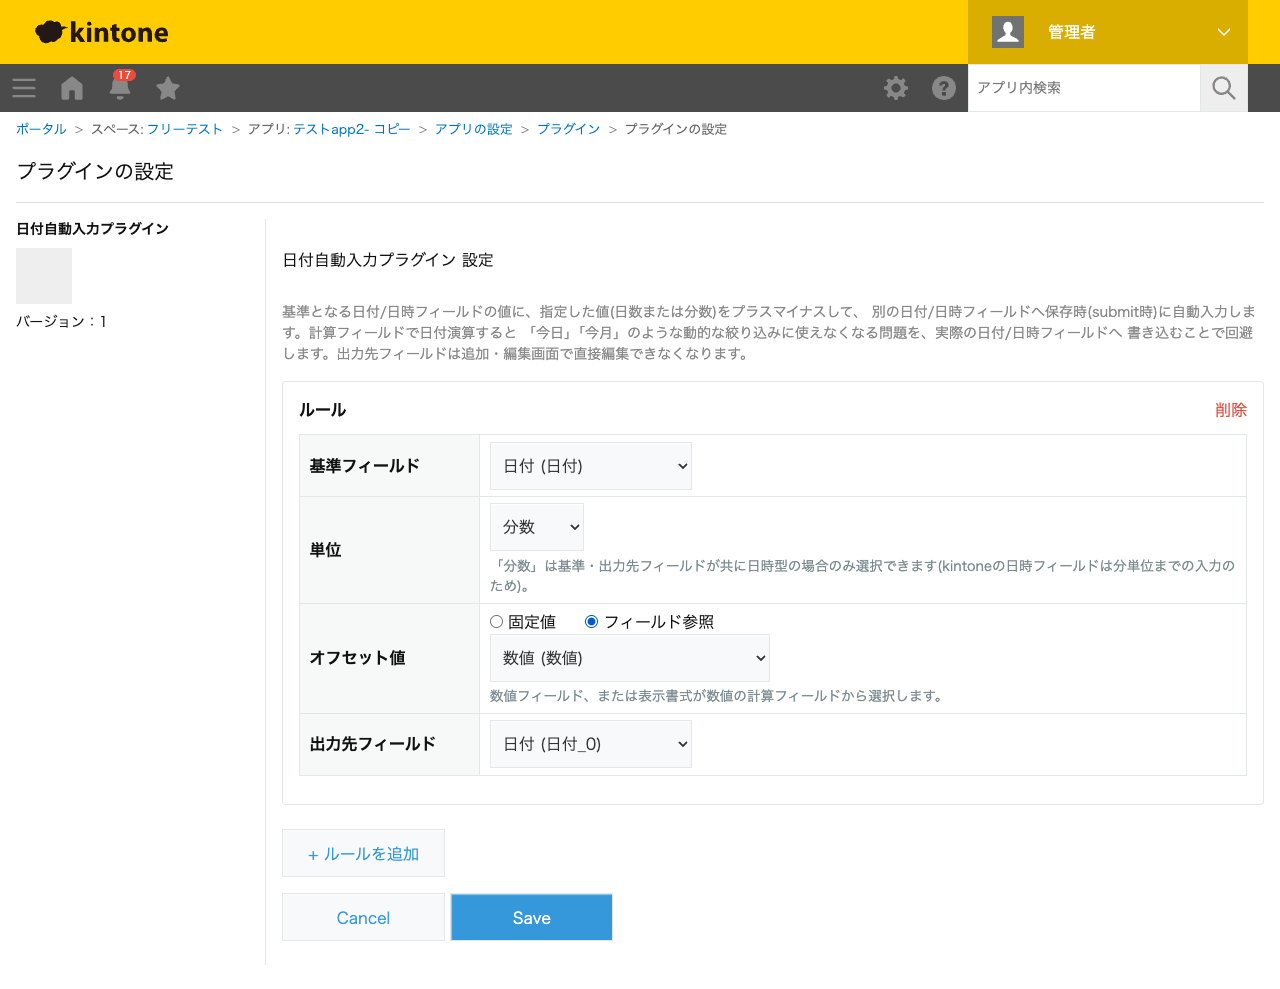
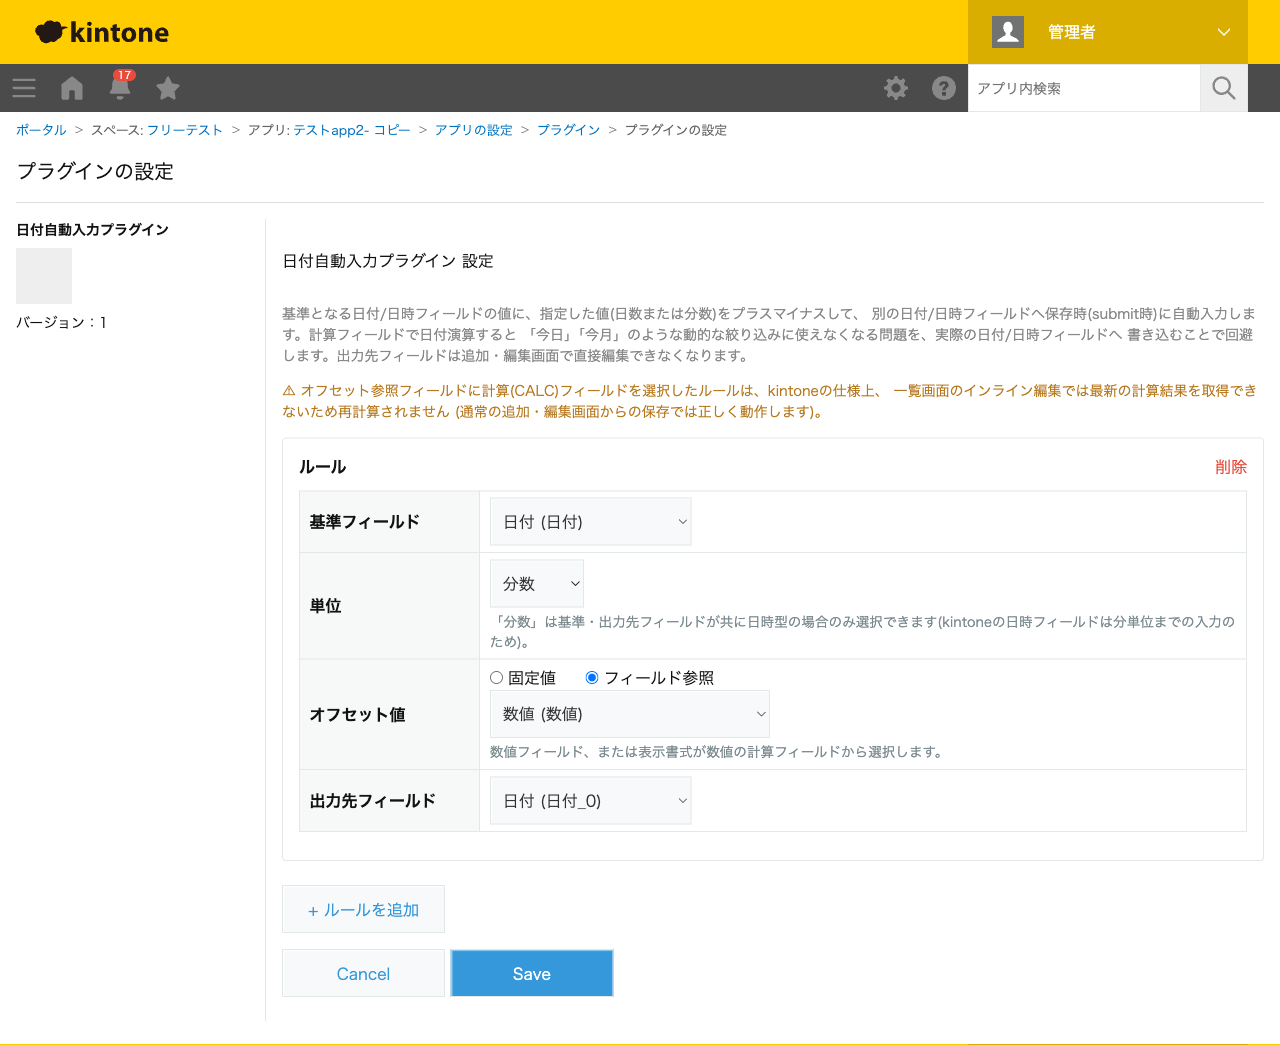
date_offset_autofill: show config-screen caution for CALC offset + list inline edit
一覧画面のインライン編集で「更新できていない」という報告を受けて調査したところ、
event.record自体は出力先フィールドを含め正しく渡っており、既存のisUnreliableInlineEditOffset
によるスキップ(オフセット参照フィールドが計算フィールドの場合、一覧イベントではその値が
信頼できないため計算をスキップする)は意図通り正しく機能していたことが実機検証で判明した。
REST API化は不要と判断し、代わりに設定画面でこの制限をユーザーに明示するcautionを追加した。

diff --git a/date_offset_autofill/src/js/config.js b/date_offset_autofill/src/js/config.js
@@ -62,6 +62,7 @@
       const fixedValueEl = rowEl.querySelector('.js-rule-fixed-value');
       const offsetFieldRowEl = rowEl.querySelector('.js-rule-offset-field-row');
       const offsetFieldEl = rowEl.querySelector('.js-rule-offset-field');
+      const calcCautionEl = rowEl.querySelector('.js-rule-calc-caution');
       const targetEl = rowEl.querySelector('.js-rule-target');
       const removeEl = rowEl.querySelector('.js-rule-remove');
 
@@ -69,6 +70,19 @@
         const isFixed = rule.offsetSource === 'FIXED';
         fixedRowEl.style.display = isFixed ? '' : 'none';
         offsetFieldRowEl.style.display = isFixed ? 'none' : '';
+      };
+
+      // オフセット参照フィールドが計算(CALC)フィールドの場合、一覧画面のインライン編集では
+      // 再計算されない(desktop.jsのisUnreliableInlineEditOffsetによりスキップされる)ため、
+      // 同じ判定関数を使って設定画面にもその旨のcautionを表示する(idea.md「一覧インライン編集
+      // 固有の注意点」参照)。
+      const applyCalcCautionVisibility = () => {
+        const offsetFieldInfo = fieldInfoByCode[rule.offsetFieldCode];
+        const isUnreliable = NS.OffsetCalculator.isUnreliableInlineEditOffset(
+          rule,
+          offsetFieldInfo && offsetFieldInfo.type,
+        );
+        calcCautionEl.hidden = !isUnreliable;
       };
 
       buildOptions(
@@ -97,6 +111,7 @@
         '(選択してください)',
       );
       applySourceVisibility();
+      applyCalcCautionVisibility();
 
       baseEl.addEventListener('change', () => {
         rule.baseFieldCode = baseEl.value;
@@ -108,12 +123,14 @@
         if (sourceFixedEl.checked) {
           rule.offsetSource = 'FIXED';
           applySourceVisibility();
+          applyCalcCautionVisibility();
         }
       });
       sourceFieldEl.addEventListener('change', () => {
         if (sourceFieldEl.checked) {
           rule.offsetSource = 'FIELD';
           applySourceVisibility();
+          applyCalcCautionVisibility();
         }
       });
       fixedValueEl.addEventListener('input', () => {
@@ -122,6 +139,7 @@
       });
       offsetFieldEl.addEventListener('change', () => {
         rule.offsetFieldCode = offsetFieldEl.value;
+        applyCalcCautionVisibility();
       });
       targetEl.addEventListener('change', () => {
         rule.targetFieldCode = targetEl.value;

diff --git a/date_offset_autofill/src/html/config.html b/date_offset_autofill/src/html/config.html
@@ -6,6 +6,11 @@
     「今日」「今月」のような動的な絞り込みに使えなくなる問題を、実際の日付/日時フィールドへ
     書き込むことで回避します。出力先フィールドは追加・編集画面で直接編集できなくなります。
   </p>
+  <p class="kintoneplugin-desc doa-desc-caution">
+    ⚠ オフセット参照フィールドに計算(CALC)フィールドを選択したルールは、kintoneの仕様上、
+    一覧画面のインライン編集では最新の計算結果を取得できないため再計算されません
+    (通常の追加・編集画面からの保存では正しく動作します)。
+  </p>
 
   <form class="js-submit-settings">
     <div id="js-errors" class="doa-errors"></div>
@@ -58,6 +63,7 @@
             <div class="js-rule-offset-field-row">
               <select class="kintoneplugin-select js-rule-offset-field"></select>
               <p class="doa-note">数値フィールド、または表示書式が数値の計算フィールドから選択します。</p>
+              <p class="doa-caution js-rule-calc-caution" hidden>⚠ 計算(CALC)フィールドを選択しています。一覧画面のインライン編集で基準フィールドを直接変更して保存しても、kintoneの仕様上この計算フィールドの最新値を取得できないため、出力先フィールドは更新されません。通常の追加・編集画面からの保存では正しく動作します。</p>
             </div>
           </td>
         </tr>

diff --git a/date_offset_autofill/src/e2e/config-screen.e2e.test.js b/date_offset_autofill/src/e2e/config-screen.e2e.test.js
@@ -109,7 +109,24 @@ describe('設定画面(実環境)', () => {
     );
     expect(offsetFieldOptionValues).toContain(NUMBER_FIELD_CODE);
     expect(offsetFieldOptionValues).toContain(fixtures.CALC_NUMBER_FIELD_CODE);
+
+    // 計算(CALC)フィールドを選ぶと、一覧インライン編集では再計算されない旨のcautionが表示される。
+    await (
+      await ruleRow.$('.js-rule-offset-field')
+    ).select(fixtures.CALC_NUMBER_FIELD_CODE);
+    const calcCautionHiddenForCalc = await ruleRow.$eval(
+      '.js-rule-calc-caution',
+      (el) => el.hidden,
+    );
+    expect(calcCautionHiddenForCalc).toBe(false);
+
+    // 数値フィールドに切り替えるとcautionは消える。
     await (await ruleRow.$('.js-rule-offset-field')).select(NUMBER_FIELD_CODE);
+    const calcCautionHiddenForNumber = await ruleRow.$eval(
+      '.js-rule-calc-caution',
+      (el) => el.hidden,
+    );
+    expect(calcCautionHiddenForNumber).toBe(true);
 
     // 単位「分数」はDATE型の基準フィールドでは保存時に弾かれる(バリデーション確認)。
     await (await ruleRow.$('.js-rule-unit')).select('MINUTES');

diff --git a/date_offset_autofill/src/css/config.css b/date_offset_autofill/src/css/config.css
@@ -58,3 +58,23 @@
   white-space: pre-wrap;
   margin-bottom: 1em;
 }
+
+.doa-caution {
+  color: #b7791f;
+  background: #fff8e6;
+  border: 1px solid #f0d999;
+  border-radius: 4px;
+  padding: 0.5em 0.75em;
+  font-size: 0.85em;
+  margin: 0.5em 0 0;
+}
+
+.doa-desc-caution {
+  color: #b7791f;
+}
+
+/* [hidden]属性はクラスがdisplayを指定していると効かなくなることがあるため、
+   常にdisplay:noneを保証する(project_hidden_attribute_css_specificity_bug参照)。 */
+[hidden] {
+  display: none !important;
+}

diff --git a/date_offset_autofill/security-checklist.md b/date_offset_autofill/security-checklist.md
@@ -2,7 +2,7 @@
 
 [secureCodingGuideline.md](../secureCodingGuideline.md)の一般項目([box_gdrive_iframe/security-checklist.md](../box_gdrive_iframe/security-checklist.md)参照、UTF-8/BOMなし・名前空間分離・`'use strict'`・外部スクリプト不使用などは同様に満たしている)は重複記載を省略し、本プラグイン固有の項目のみ記載する。`text_slice`と設計方針が共通する項目(submit限定発動、disabled化の範囲、設定バリデーション方針)は理由の重複記載を省略する。
 
-最終確認日: 2026-08-21 / 対象: 一覧インライン編集(`app.record.index.edit.submit`)対応の追加
+最終確認日: 2026-08-21 / 対象: 一覧インライン編集(`app.record.index.edit.submit`)対応の追加、および設定画面へのCALCオフセットcaution追加
 
 ## コーディング作法
 
@@ -41,6 +41,7 @@
 - [x] kintoneドキュメントMCPで確認した制限事項(一覧に配置していないCALCフィールドの値は「再計算前の値」のまま返る)により、インライン編集コンテキストでCALCフィールドをオフセット参照に使うルールをそのまま計算すると、誤った日付を無言で書き込んでしまうリスクがあった。`js/lib/offset-calculator.js`の`isUnreliableInlineEditOffset()`でこの組み合わせを検出し、`app.record.index.edit.submit`ではそのルールの計算自体をスキップする設計にした(ユニットテストで確定的に検証済み)
 - [x] 同じ制限事項の「一覧に配置している場合は空文字列になる」ケースは、既存の「オフセット値が数値として解決できない場合はスキップする」ロジック(`resolveOffsetMagnitude()`)がそのまま安全に機能する(誤った値を書き込むことはない)
 - [x] 固定値(`FIXED`)ルール、およびNUMBER型フィールドを参照するルールはこの制限を受けないため、一覧インライン編集でも通常の追加・編集画面と同じロジックで再計算される
+- [x] 2026-08-21追加: このスキップ自体は意図通り正しく機能しているが(ユーザーによる実機検証`app 736`で`event.record`のダンプを確認、出力先フィールドは正しく含まれておりCALCフィールドの値だけが信頼できないことを確認済み)、ユーザーが設定時にこの制限を知る手段が無かったため、設定画面(`js/config.js`)でオフセット参照フィールドに計算(CALC)フィールドを選んだ場合にcaution(注意書き)を表示するようにした(`OffsetCalculator.isUnreliableInlineEditOffset()`を再利用、ロジック自体の変更はしていない)
 
 ## 通信・認証情報の取り扱い
 
@@ -53,6 +54,6 @@
 ## 個別確認事項(利用ユーザーへ委ねる項目)
 
 - 出力先フィールドを手直ししたいという使い勝手上の指摘があれば、`number_extract`と同様の「disabledなし」への変更を検討する([feedback_autofill_field_editability]参照、プラグインごとの判断)
-- 一覧画面のインライン編集(`app.record.index.edit`)で基準フィールドを直接変更して保存した場合は本プラグインも再計算する(2026-08-21対応)。ただしCALCフィールドをオフセット参照に使うルールは、上記「一覧インライン編集固有のリスク」の理由により計算をスキップし出力先フィールドが古い値のまま残り得る(意図的な安全策として明記済み)
+- 一覧画面のインライン編集(`app.record.index.edit`)で基準フィールドを直接変更して保存した場合は本プラグインも再計算する(2026-08-21対応)。ただしCALCフィールドをオフセット参照に使うルールは、上記「一覧インライン編集固有のリスク」の理由により計算をスキップし出力先フィールドが古い値のまま残り得る(意図的な安全策であり、設定画面のcautionでユーザーに明示済み)
 
 問題があれば、公開サイトのリポジトリのGitHub Issueで報告してもらい対応する。
